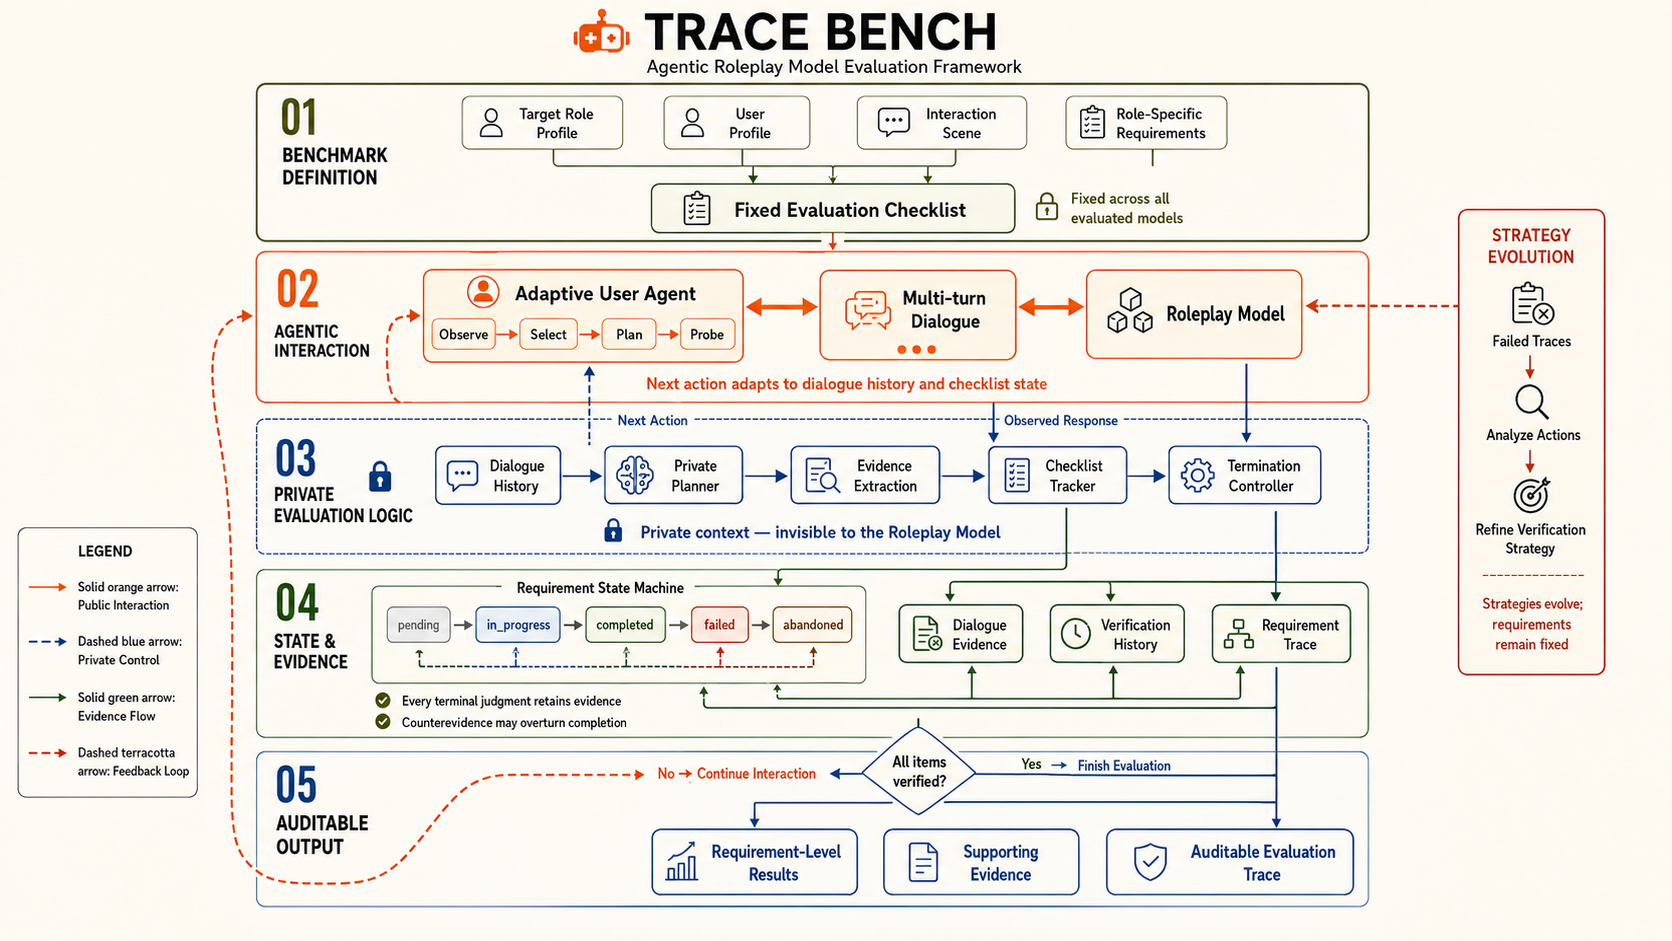
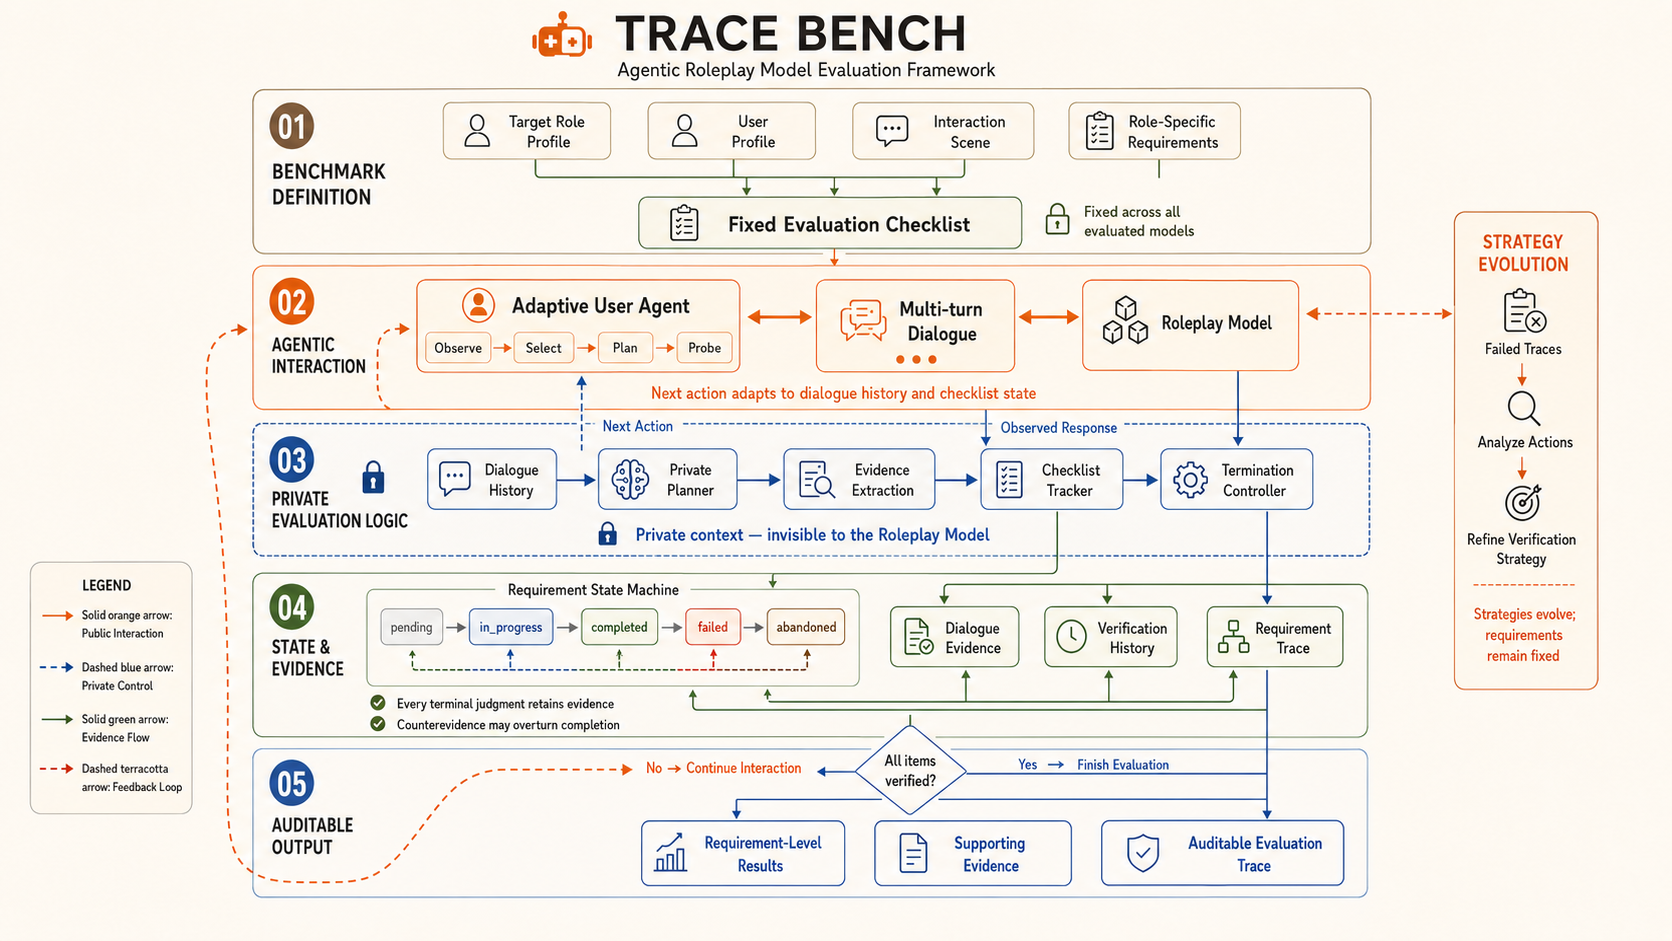
feat: 全局语言偏好持久化并修正 GitHub 链接
- LangProvider 用 localStorage(gamemind-lang) 持久化语言并同步 html[lang]
- 主站与站点(ui.js/cutscene_agent)统一读写 gamemind-lang 实现语言联动
- SitePage 改用原生 script 加载并内联 lang 预置脚本
- 修正 GitHub 组织链接为 KuaishouGameMind
- 更新 trace_bench framework 图片

diff --git a/components/LangProvider.tsx b/components/LangProvider.tsx
@@ -1,6 +1,6 @@
 'use client'
 
-import { createContext, useContext, useState, ReactNode } from 'react'
+import { createContext, useContext, useState, useEffect, ReactNode } from 'react'
 
 type Lang = 'zh' | 'en'
 
@@ -16,10 +16,36 @@ const LangContext = createContext<LangContextType>({
   t: (zh) => zh,
 })
 
+const STORAGE_KEY = 'gamemind-lang'
+
 export function LangProvider({ children }: { children: ReactNode }) {
   const [lang, setLang] = useState<Lang>('zh')
-  const toggleLang = () => setLang(l => l === 'zh' ? 'en' : 'zh')
+
+  useEffect(() => {
+    try {
+      const saved = localStorage.getItem(STORAGE_KEY)
+      if (saved === 'zh' || saved === 'en') {
+        setLang(saved)
+      } else {
+        localStorage.setItem(STORAGE_KEY, 'zh')
+      }
+    } catch (e) {}
+  }, [])
+
+  useEffect(() => {
+    document.documentElement.lang = lang === 'zh' ? 'zh-CN' : 'en'
+  }, [lang])
+
+  const toggleLang = () => {
+    setLang(l => {
+      const next = l === 'zh' ? 'en' : 'zh'
+      try { localStorage.setItem(STORAGE_KEY, next) } catch (e) {}
+      return next
+    })
+  }
+
   const t = (zh: string, en: string) => lang === 'zh' ? zh : en
+
   return (
     <LangContext.Provider value={{ lang, toggleLang, t }}>
       {children}

diff --git a/components/Navbar.tsx b/components/Navbar.tsx
@@ -116,7 +116,7 @@ export default function Navbar() {
 
               {/* GitHub — orange background */}
               <a
-                href="https://github.com/Kuaishou-GameMind"
+                href="https://github.com/KuaishouGameMind"
                 className="hidden sm:flex items-center p-2 rounded-lg transition-all duration-200 hover:opacity-85 hover:scale-[0.97]"
                 style={{ background: '#FF6400', color: '#fff', boxShadow: '0 0 16px rgba(255,100,0,0.35)' }}
               >
@@ -157,7 +157,7 @@ export default function Navbar() {
                 ))}
                 <div className={`pt-4 border-t ${borderColor}`}>
                   <a
-                    href="https://github.com/Kuaishou-GameMind"
+                    href="https://github.com/KuaishouGameMind"
                     className={`flex items-center gap-3 px-4 py-3 text-base font-medium ${textSecondary} ${navLinkHover} rounded-xl ${hoverBg} transition-all duration-200`}
                     style={{ fontFamily: 'Inter, sans-serif' }}
                   >

diff --git a/components/sites/SitePage.tsx b/components/sites/SitePage.tsx
@@ -1,5 +1,3 @@
-import Script from 'next/script'
-
 interface SiteScript {
   src: string
   strategy?: 'beforeInteractive' | 'afterInteractive' | 'lazyOnload'
@@ -22,8 +20,14 @@ export default function SitePage({ bodyHtml, stylesheets, scripts }: SitePagePro
         <link key={href} rel="stylesheet" href={href} />
       ))}
       <div dangerouslySetInnerHTML={{ __html: bodyHtml }} />
-      {scripts.map(({ src, strategy = 'afterInteractive' }) => (
-        <Script key={src} src={src} strategy={strategy} />
+      <script
+        dangerouslySetInnerHTML={{
+          __html:
+            'document.documentElement.lang=(localStorage.getItem("gamemind-lang")==="zh")?"zh-CN":"en";',
+        }}
+      />
+      {scripts.map(({ src }) => (
+        <script key={src} src={src} defer />
       ))}
     </>
   )

diff --git a/public/projects/cutscene_agent/script.js b/public/projects/cutscene_agent/script.js
@@ -297,6 +297,8 @@ let currentLang = document.documentElement.lang.toLowerCase().startsWith('zh') ?
 
 function getInitialLanguage() {
   try {
+    const global = localStorage.getItem('gamemind-lang');
+    if (global && I18N[global]) return global;
     const saved = localStorage.getItem('cs-agent-lang');
     if (saved && I18N[saved]) {
       return saved;
@@ -332,7 +334,7 @@ function setLanguage(lang) {
   document.documentElement.lang = lang === 'zh' ? 'zh-CN' : 'en';
 
   // Store preference
-  try { localStorage.setItem('cs-agent-lang', lang); } catch(e) {}
+  try { localStorage.setItem('gamemind-lang', lang); localStorage.setItem('cs-agent-lang', lang); } catch(e) {}
 
   // Re-render interactive figures with new language
   if (typeof refreshFigures === 'function') refreshFigures();

diff --git a/public/_shared/ui.js b/public/_shared/ui.js
@@ -20,6 +20,8 @@
 
   function getInitialLanguage() {
     try {
+      var global = localStorage.getItem('gamemind-lang');
+      if (global && _config.i18n[global]) return global;
       var saved = localStorage.getItem(_config.storageKey);
       if (saved && _config.i18n[saved]) return saved;
     } catch (e) {}
@@ -49,6 +51,7 @@
     document.documentElement.lang = lang === 'zh' ? 'zh-CN' : 'en';
 
     try {
+      localStorage.setItem('gamemind-lang', lang);
       localStorage.setItem(_config.storageKey, lang);
     } catch (e) {}
 

diff --git a/components/Hero.tsx b/components/Hero.tsx
@@ -157,7 +157,7 @@ export default function Hero({ onExplore }: HeroProps) {
               </motion.button>
 
               <motion.a
-                href="https://github.com/Kuaishou-GameMind"
+                href="https://github.com/KuaishouGameMind"
                 className={`inline-flex items-center gap-2.5 px-6 py-3 rounded-full text-sm font-medium border transition-all duration-200 ${
                   isDark
                     ? 'border-white/12 text-white/70 hover:border-white/25 hover:text-white hover:bg-white/5'
